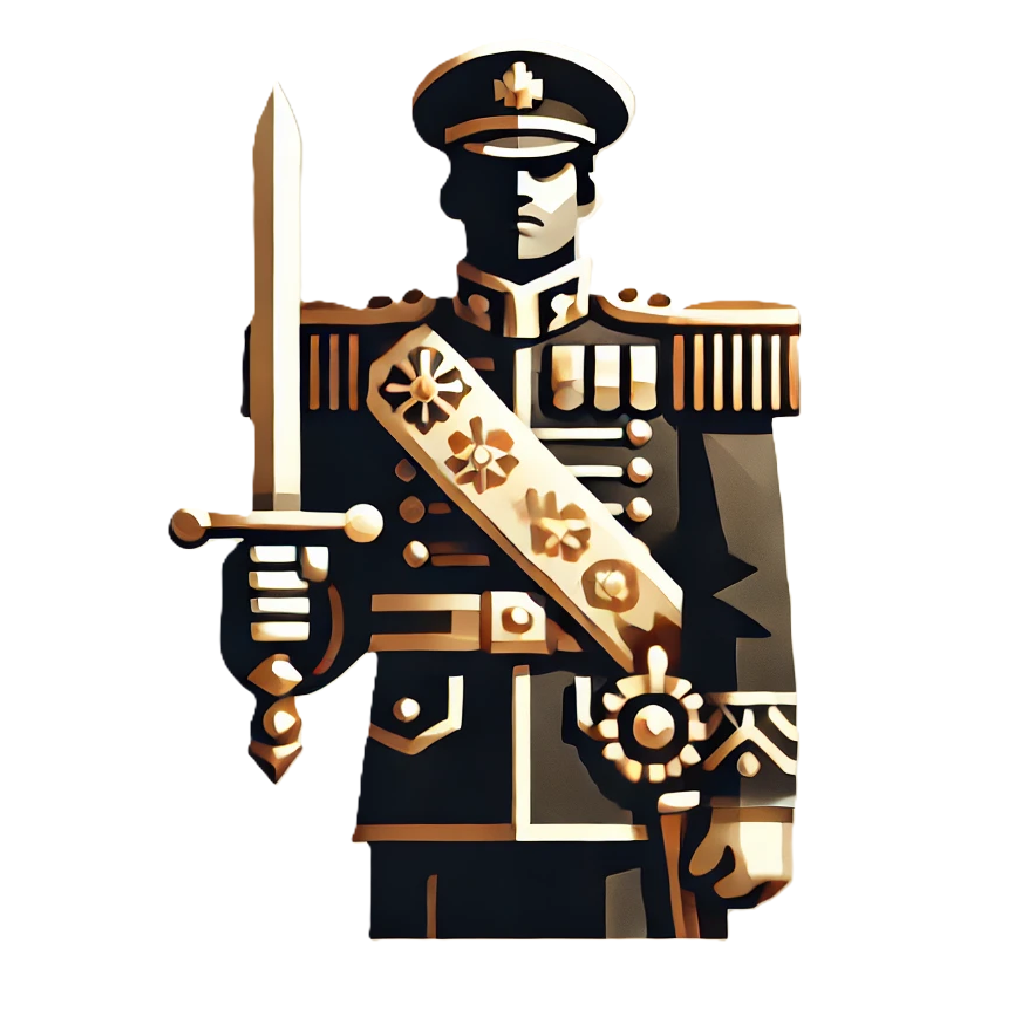
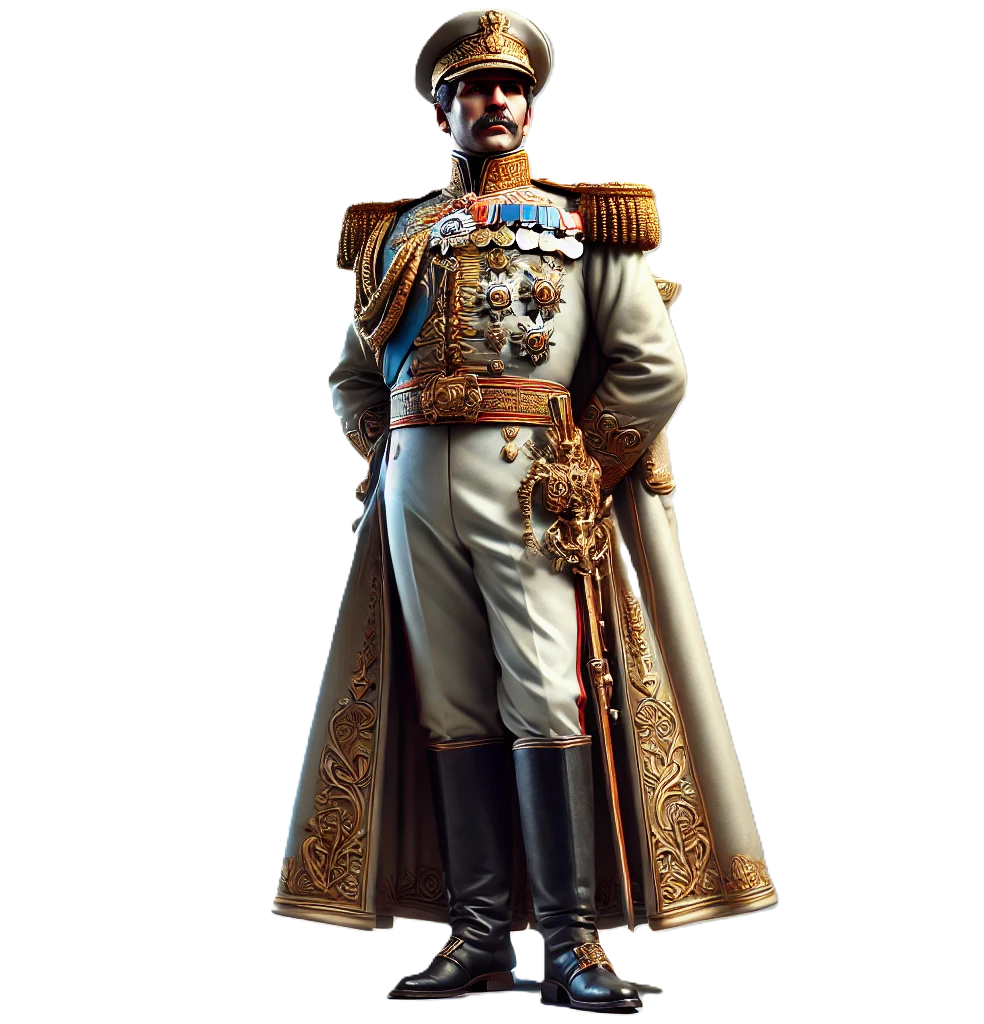
updated all piece images

diff --git a/frontend/stratego-game/src/app/stratego-logic/models.ts b/frontend/stratego-game/src/app/stratego-logic/models.ts
@@ -45,28 +45,28 @@ export type SafeSquares = Map<string, Coords[]>;
 
 
 export const pieceImagePaths: Readonly<Record<FENChar, string>> = {
-    [FENChar.RedScout]: "/pieces/scout-icon.png",
-    [FENChar.RedSapper]: "/pieces/sapper-icon.png",
-    [FENChar.RedInfantry]: "/pieces/infantry-icon.png",
-    [FENChar.RedCourier]: "/pieces/courier-icon.png",
-    [FENChar.RedCavalry]: "/pieces/cavalry-icon.png",
-    [FENChar.RedArtillery]: "/pieces/artillery-icon.png",
-    [FENChar.RedDragoon]: "/pieces/dragoon-icon.png",
-    [FENChar.RedMarine]: "/pieces/marine-icon.png",
-    [FENChar.RedGeneral]: "/pieces/general-icon.png",
-    [FENChar.RedAssassin]: "/pieces/assassin-icon.png",
+    [FENChar.RedScout]: "/pieces/redScout-icon.png",
+    [FENChar.RedSapper]: "/pieces/redSapper-icon.png",
+    [FENChar.RedInfantry]: "/pieces/redInfantry-icon.png",
+    [FENChar.RedCourier]: "/pieces/redCourier-icon.png",
+    [FENChar.RedCavalry]: "/pieces/redCavalry-icon.png",
+    [FENChar.RedArtillery]: "/pieces/redArtillery-icon.png",
+    [FENChar.RedDragoon]: "/pieces/redDragoon-icon.png",
+    [FENChar.RedMarine]: "/pieces/redMarine-icon.png",
+    [FENChar.RedGeneral]: "/pieces/redGeneral-icon.png",
+    [FENChar.RedAssassin]: "/pieces/redAssassin-icon.png",
     [FENChar.RedFlag]: "/pieces/redFlag-icon.png",
     [FENChar.RedBomb]: "/pieces/bomb-icon.png",
-    [FENChar.BlueScout]: "/pieces/scout-icon.png",
-    [FENChar.BlueSapper]: "/pieces/sapper-icon.png",
-    [FENChar.BlueInfantry]: "/pieces/infantry-icon.png",
-    [FENChar.BlueCourier]: "/pieces/courier-icon.png",
-    [FENChar.BlueCavalry]: "/pieces/cavalry-icon.png",
-    [FENChar.BlueArtillery]: "/pieces/artillery-icon.png",
-    [FENChar.BlueDragoon]: "/pieces/dragoon-icon.png",
-    [FENChar.BlueMarine]: "/pieces/marine-icon.png",
-    [FENChar.BlueGeneral]: "/pieces/general-icon.png",
-    [FENChar.BlueAssassin]: "/pieces/assassin-icon.png",
+    [FENChar.BlueScout]: "/pieces/blueScout-icon.png",
+    [FENChar.BlueSapper]: "/pieces/blueSapper-icon.png",
+    [FENChar.BlueInfantry]: "/pieces/blueInfantry-icon.png",
+    [FENChar.BlueCourier]: "/pieces/blueCourier-icon.png",
+    [FENChar.BlueCavalry]: "/pieces/blueCavalry-icon.png",
+    [FENChar.BlueArtillery]: "/pieces/blueArtillery-icon.png",
+    [FENChar.BlueDragoon]: "/pieces/blueDragoon-icon.png",
+    [FENChar.BlueMarine]: "/pieces/blueMarine-icon.png",
+    [FENChar.BlueGeneral]: "/pieces/blueGeneral-icon.png",
+    [FENChar.BlueAssassin]: "/pieces/blueAssassin-icon.png",
     [FENChar.BlueFlag]: "/pieces/blueFlag-icon.png",
     [FENChar.BlueBomb]: "/pieces/bomb-icon.png"
 }
